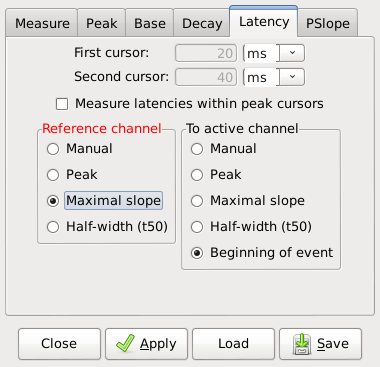
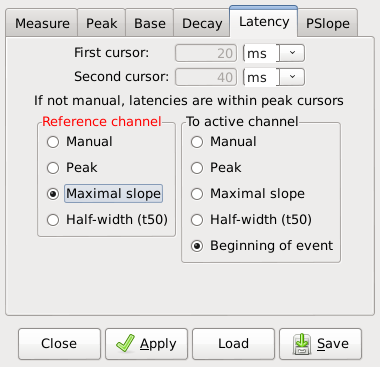
compute latencies always between peak cursors

Changed region(s): [[0.0868, 0.2398, 0.8974, 0.7493]]

diff --git a/src/stimfit/gui/dlgs/cursorsdlg.cpp b/src/stimfit/gui/dlgs/cursorsdlg.cpp
@@ -52,7 +52,6 @@ enum {
     wxRADIO_LAT_HALFWIDTH2,
     wxRADIO_LAT_PEAK2,
     wxRADIO_LAT_MANUAL2,
-    wxLATENCYWINDOW,
 #ifdef WITH_PSLOPE
     // Slope radio boxes 
     wxRADIO_PSManBeg,
@@ -453,8 +452,8 @@ wxNotebookPage* wxStfCursorsDlg:: CreateLatencyPage(){
         wxCOMBOU2L, 1, 10), 0, wxALIGN_CENTER | wxALL, 2);
 
     // Checkbox for using peak window for latency cursors
-    wxCheckBox *pUsePeak = new wxCheckBox(nbPage, wxLATENCYWINDOW,
-        wxT("Measure latencies within peak cursors"), wxDefaultPosition,
+    wxStaticText *pUsePeak = new wxStaticText(nbPage, wxID_ANY,
+        wxT("If not manual, latencies are within peak cursors"), wxDefaultPosition,
         wxDefaultSize, 0);
     pageSizer->Add(pUsePeak, 0 , wxALIGN_CENTER | wxALL, 2);
 
@@ -1539,8 +1538,7 @@ void wxStfCursorsDlg::OnComboBoxU2L( wxCommandEvent& event ) {
 void wxStfCursorsDlg::OnRadioLatManualBeg( wxCommandEvent& event ) {
     event.Skip();
     wxTextCtrl* pCursor1L = (wxTextCtrl*)FindWindow(wxTEXT1L);
-    wxCheckBox *pUsePeak = (wxCheckBox*)FindWindow(wxLATENCYWINDOW);
-    if (pCursor1L == NULL || pUsePeak == NULL) {
+    if (pCursor1L == NULL ) {
         wxGetApp().ErrorMsg(wxT("null pointer in wxStfCursorsDlg::OnRadioLatManBeg()"));
         return;
     }
@@ -1548,37 +1546,26 @@ void wxStfCursorsDlg::OnRadioLatManualBeg( wxCommandEvent& event ) {
     if (!pCursor1L->IsEnabled())
         pCursor1L->Enable(true);
 
-    if (pUsePeak->IsChecked()) {
-        pUsePeak->SetValue(false);
-    }
-    pUsePeak->Enable(false);
 }
 
 void wxStfCursorsDlg::OnRadioLatManualEnd( wxCommandEvent& event ) {
     event.Skip();
     wxTextCtrl* pCursor2L = (wxTextCtrl*)FindWindow(wxTEXT2L);
-    wxCheckBox *pUsePeak = (wxCheckBox*)FindWindow(wxLATENCYWINDOW);
-    if (pCursor2L == NULL || pUsePeak == NULL) {
+    if (pCursor2L == NULL) {
         wxGetApp().ErrorMsg(wxT("null pointer in wxStfCursorsDlg::OnRadioLatManEnd()"));
         return;
     }
     // if cursor wxTextCtrl is NOT enabled
     if (!pCursor2L->IsEnabled())
         pCursor2L->Enable(true);
-
-    if (pUsePeak->IsChecked()) {
-        pUsePeak->SetValue(false);
-    }
-    pUsePeak->Enable(false);
 }
 
 void wxStfCursorsDlg::OnRadioLatNonManualBeg( wxCommandEvent& event ) {
     event.Skip();
     wxTextCtrl* pCursor1L = (wxTextCtrl*)FindWindow(wxTEXT1L);
-    wxCheckBox* pUsePeak = (wxCheckBox*)FindWindow(wxLATENCYWINDOW);
     wxRadioButton* pLatencyManualEnd = (wxRadioButton*)FindWindow(wxRADIO_LAT_MANUAL2);
 
-    if (pCursor1L == NULL || pUsePeak == NULL || pLatencyManualEnd == NULL) {
+    if (pCursor1L == NULL || pLatencyManualEnd == NULL) {
         wxGetApp().ErrorMsg(wxT("null pointer in wxStfCursorsDlg::OnRadioLatt50Beg()"));
         return;
     }
@@ -1586,29 +1573,20 @@ void wxStfCursorsDlg::OnRadioLatNonManualBeg( wxCommandEvent& event ) {
     if (pCursor1L->IsEnabled())
         pCursor1L->Enable(false);
 
-    // enable latency between peak cursors if the second latency cursor is NOT manual 
-    if (!pLatencyManualEnd->GetValue())
-        pUsePeak->Enable(true);
-    
 }
 
 void wxStfCursorsDlg::OnRadioLatNonManualEnd( wxCommandEvent& event ) {
     event.Skip();
     wxTextCtrl* pCursor2L = (wxTextCtrl*)FindWindow(wxTEXT2L);
-    wxCheckBox *pUsePeak = (wxCheckBox*)FindWindow(wxLATENCYWINDOW);
     wxRadioButton* pLatencyManualBeg = (wxRadioButton*)FindWindow(wxRADIO_LAT_MANUAL1);
 
-    if (pCursor2L == NULL || pUsePeak == NULL || pLatencyManualBeg == NULL) {
+    if (pCursor2L == NULL || pLatencyManualBeg == NULL) {
         wxGetApp().ErrorMsg(wxT("null pointer in wxStfCursorsDlg::OnRadioNonManualEnd()"));
         return;
     }
     // disable cursor wxTextCtrl if it is enabled 
     if (pCursor2L->IsEnabled()) 
         pCursor2L->Enable(false);
-
-    // enable latency between peak cursors if the first second latency cursor is NOT manual
-    if (!pLatencyManualBeg->GetValue())
-        pUsePeak->Enable(true);
 
 }
 
@@ -1885,18 +1863,14 @@ void wxStfCursorsDlg::SetLatencyStartMode(stf::latency_mode latencyBegMode){
     wxRadioButton* pMaxSlope = (wxRadioButton*)FindWindow(wxRADIO_LAT_MAXSLOPE1);
     wxRadioButton* pt50      = (wxRadioButton*)FindWindow(wxRADIO_LAT_HALFWIDTH1);
 
-    wxCheckBox* pUsePeak = (wxCheckBox*)FindWindow(wxLATENCYWINDOW);
-    
-    
     if (pManual == NULL || pPeak == NULL
-        || pMaxSlope == NULL || pt50 == NULL || pUsePeak==NULL) {
+        || pMaxSlope == NULL || pt50 == NULL) {
         wxGetApp().ErrorMsg(wxT("Null pointer in wxStfCursorsDlg::SetLatencyStartMode()"));
     }
 
     switch (latencyBegMode) {
         case stf::manualMode:
             pManual->SetValue(true);
-            pUsePeak->Enable(false);
             break;
         case stf::peakMode:
             pPeak->SetValue(true);
@@ -1921,17 +1895,15 @@ void wxStfCursorsDlg::SetLatencyEndMode(stf::latency_mode latencyEndMode){
     wxRadioButton* pt50      = (wxRadioButton*)FindWindow(wxRADIO_LAT_HALFWIDTH2);
     wxRadioButton* pEvent    = (wxRadioButton*)FindWindow(wxRADIO_LAT_EVENT2);
 
-    wxCheckBox* pUsePeak = (wxCheckBox*)FindWindow(wxLATENCYWINDOW);
     
     if (pManual == NULL || pPeak == NULL
-        || pMaxSlope == NULL || pt50 == NULL || pEvent == NULL || pUsePeak == NULL) {
+        || pMaxSlope == NULL || pt50 == NULL || pEvent == NULL) {
         wxGetApp().ErrorMsg(wxT("Null pointer in wxStfCursorsDlg::SetLatencyEndtMode()"));
     }
 
     switch (latencyEndMode) {
         case stf::manualMode:
             pManual->SetValue(true);
-            pUsePeak->Enable(false);
             break;
         case stf::peakMode:
             pPeak->SetValue(true);
@@ -1948,27 +1920,6 @@ void wxStfCursorsDlg::SetLatencyEndMode(stf::latency_mode latencyEndMode){
         default:
             break;
         }
-}
-void wxStfCursorsDlg::SetPeak4Latency(int val){
-
-    wxCheckBox* pUsePeak = (wxCheckBox*)FindWindow(wxLATENCYWINDOW);
-    if (pUsePeak == NULL) {
-        wxGetApp().ErrorMsg(wxT("null pointer in wxStfCursorsDlg::SetUsePeak4Latency()"));
-        return;
-    }
-
-    pUsePeak->SetValue(val);
-}
-
-bool wxStfCursorsDlg::UsePeak4Latency() const
-{   
-    wxCheckBox* pUsePeak = (wxCheckBox*)FindWindow(wxLATENCYWINDOW);
-    if (pUsePeak == NULL) {
-        wxGetApp().ErrorMsg(wxT("null pointer in wxStfCursorsDlg::GetUsePeak4Latency()"));
-        return false;
-    }
-    return pUsePeak->IsChecked(); 
-    
 }
 
 
@@ -2198,7 +2149,7 @@ void wxStfCursorsDlg::UpdateCursors() {
         pText2->Enable(!actDoc->GetLatencyEndMode());
 
         // use peak for latency measurements?
-        SetPeak4Latency ( actDoc->GetLatencyWindowMode() );
+        //SetPeak4Latency ( actDoc->GetLatencyWindowMode() );
 
         // Update RadioButton options
         SetLatencyStartMode( actDoc->GetLatencyStartMode() );

diff --git a/src/stimfit/gui/doc.cpp b/src/stimfit/gui/doc.cpp
@@ -362,7 +362,7 @@ void wxStfDoc::SetData( const Recording& c_Data, const wxStfDoc* Sender, const w
         //0=Off, 1=Peak, 2=Rise
         SetLatencyStartMode( Sender->GetLatencyStartMode() );
         SetLatencyEndMode( Sender->GetLatencyEndMode() );
-        SetLatencyWindowMode( Sender->GetLatencyWindowMode() );
+        //SetLatencyWindowMode( Sender->GetLatencyWindowMode() );
 #ifdef WITH_PSLOPE
         SetPSlopeBegMode ( Sender->GetPSlopeBegMode() );
         SetPSlopeEndMode ( Sender->GetPSlopeEndMode() );
@@ -2613,8 +2613,8 @@ void wxStfDoc::Measure( )
         APMaxRiseT=0.0;
         APMaxRiseY=0.0;
         double left_APRise = peakBeg; 
-        if (GetLatencyWindowMode() == stf::defaultMode ) {
-            left_APRise= APMaxT-searchRange>2.0 ? APMaxT-searchRange : 2.0;
+        //if (GetLatencyWindowMode() == stf::defaultMode ) {
+        if (left_APRise= APMaxT-searchRange>2.0 ? APMaxT-searchRange : 2.0){;
         }
         try {
             stfnum::maxRise(secsec().get(),left_APRise,APMaxT,APMaxRiseT,APMaxRiseY,windowLength);

diff --git a/src/stimfit/gui/app.cpp b/src/stimfit/gui/app.cpp
@@ -455,8 +455,8 @@ void wxStfApp::OnPeakcalcexecMsg(wxStfDoc* actDoc) {
 
          case stf::latency_cursor:
              // Use peak cursors for latency?
-             actDoc->SetLatencyWindowMode(CursorsDialog->UsePeak4Latency() );
-             wxWriteProfileInt(wxT("Settings"), wxT("LatencyWindowMode"), CursorsDialog->UsePeak4Latency() );
+             // actDoc->SetLatencyWindowMode(CursorsDialog->UsePeak4Latency() );
+             // wxWriteProfileInt(wxT("Settings"), wxT("LatencyWindowMode"), CursorsDialog->UsePeak4Latency() );
 
              // Latency start mode
              actDoc->SetLatencyBeg(CursorsDialog->GetCursor1L());

diff --git a/src/stimfit/gui/dlgs/cursorsdlg.h b/src/stimfit/gui/dlgs/cursorsdlg.h
@@ -273,16 +273,6 @@ public:
      */
     void SetLatencyEndMode(stf::latency_mode latencyEndMode);
 
-    //! Indicates whether latency measurements should be taken within the current peak cursors.
-    /*! \return true if latency measurement is taken within the peak cursors.
-     */
-    bool UsePeak4Latency() const;
-
-    //! Sets the latency measurements to current peak cursors.
-    /*! \param val.
-     */
-    void SetPeak4Latency(int val);
-    
 #ifdef WITH_PSLOPE
     //! Gets the mode of measure for the beginning of the slope cursor.
     /*! \return The current mode for the beginning slope cursor.

diff --git a/doc/sphinx/manual/latency_measurements.rst b/doc/sphinx/manual/latency_measurements.rst
@@ -43,6 +43,10 @@ In addition, latency cursors can be adjusted to some predefined measurements usi
 
         **Fig. 19B:** Cursors settings for latency.
 
+.. note::
+
+    If manual is not set, cursor latencies will be located within the peak cursors. Be sure that you set the peak cursors in the right location on both active and reference channel. This is necessary to detect the peak, maximal slope, half-width or beginning of the event.
+
 Then, if options other than manual are selected, the latencies will be computed based on the updated measurements from the reference and active channels (Fig. 20). The latency will be indicated as a double-headed arrow connecting the two latency cursors.
 
     .. figure:: images/latencytraces.png
